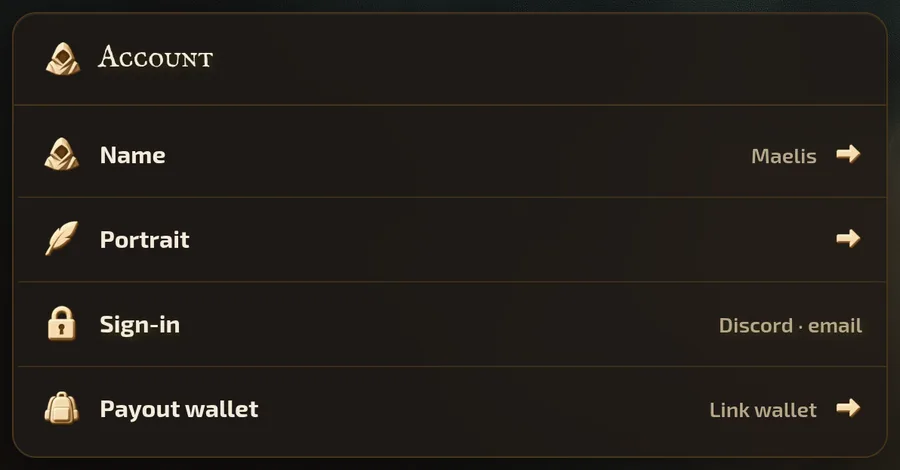
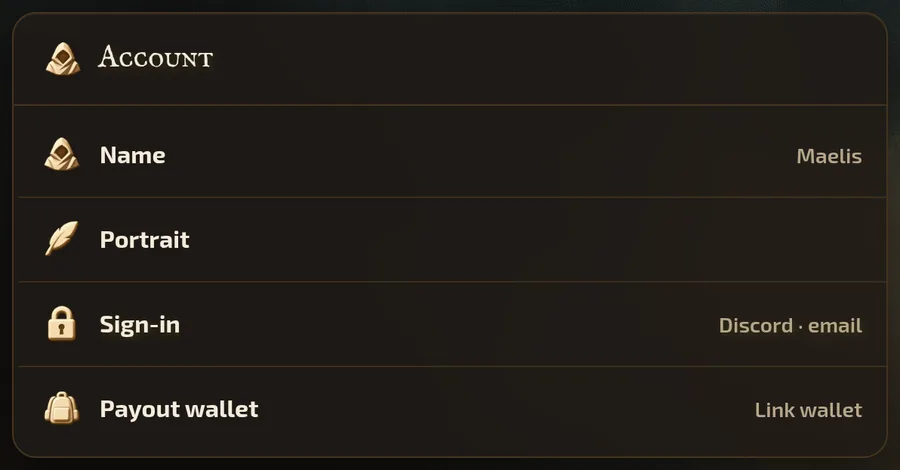
Retake the payout wallet docs stills from today's wallet sheet
The docs' Payout wallet still showed the removed "I need one · Ready: browser or email" choice, under a caption naming
Create my wallet. Its capture could no longer run: the app lab never answered the Realms wallet read, so the window
showed "could not be read", and the crop still looked for the old panel.

- The app lab answers readDefaultWallet with none, as the game lab does, so wallet-none offers Create my wallet.
- The payout wallet shot crops the window it now is; the settings shot closes the Your wallet offer first, as a player
  would.
- Both stills are retaken from the lab.

Changed region(s): [[0.84, 0.2979, 0.9644, 0.3574], [0.7778, 0.834, 0.9644, 0.8936], [0.9333, 0.4766, 0.9644, 0.5362]]

diff --git a/apps/game/src/shell/lab/app-lab.test.tsx b/apps/game/src/shell/lab/app-lab.test.tsx
@@ -12,7 +12,12 @@ const identity = vi.hoisted(() => {
       state.session = value;
     },
   };
-  return { originalSession, state, client: { sendSignInCode: vi.fn() }, signedIn: { on: false } };
+  return {
+    originalSession,
+    state,
+    client: { sendSignInCode: vi.fn(), readDefaultWallet: vi.fn() },
+    signedIn: { on: false },
+  };
 });
 vi.mock("@/hooks/context/identity-session", () => ({
   identityClient: identity.client,
@@ -54,6 +59,7 @@ it("answers fixture reads while mounted and restores the real runtime when leavi
   vi.stubGlobal("fetch", network);
   const socket = window.WebSocket;
   const sendCode = identity.client.sendSignInCode;
+  const readWallet = identity.client.readDefaultWallet;
   container = document.createElement("div");
   document.body.append(container);
   root = createRoot(container);
@@ -73,12 +79,15 @@ it("answers fixture reads while mounted and restores the real runtime when leavi
   expect(directory.shards[0].url).toBe("https://lab.invalid");
   await vi.waitFor(() => expect(identity.state.session).not.toBe(identity.originalSession));
   expect(identity.client.sendSignInCode).not.toBe(sendCode);
+  // The lab's player has no Realms wallet: the payout window offers to make one, not a failed read.
+  expect(await identity.client.readDefaultWallet()).toBeNull();
   await act(async () => root!.unmount());
   root = undefined;
   expect(await (await window.fetch("/api/directory")).json()).toEqual({ source: "network" });
   expect(window.fetch).toBe(network);
   expect(window.WebSocket).toBe(socket);
   expect(identity.client.sendSignInCode).toBe(sendCode);
+  expect(identity.client.readDefaultWallet).toBe(readWallet);
   expect(identity.state.session).toBe(identity.originalSession);
 });
 

diff --git a/apps/game/src/shell/lab/app-lab.tsx b/apps/game/src/shell/lab/app-lab.tsx
@@ -207,6 +207,7 @@ function installLabFixtures(screen: LabScreen, field: number | null): () => void
     "redeemCampaignTicket",
     "campaignReferral",
     "campaignReferrer",
+    "readDefaultWallet",
   ];
   const descriptors = identityMethods.map(
     (name) => [name, Object.getOwnPropertyDescriptor(identityClient, name)] as const,
@@ -288,6 +289,8 @@ const answerIdentity = (screen: LabScreen) => {
   };
   identityClient.campaignReferral = async () => LAB_REFERRALS[screen] ?? LAB_FIRST_REFERRAL;
   identityClient.campaignReferrer = async () => LAB_REFERRER;
+  // The lab's player has made no Realms wallet, so the payout window offers Create my wallet.
+  identityClient.readDefaultWallet = async () => null;
   // The account's build orders, kept in the tab: each save is held, and read back, at the next revision.
   let orders = { revision: 3, book: LAB_BUILD_ORDERS as unknown };
   const buildOrders = () => ({ owner: useIdentitySessionStore.getState().session?.user.realmsId ?? "", ...orders });
